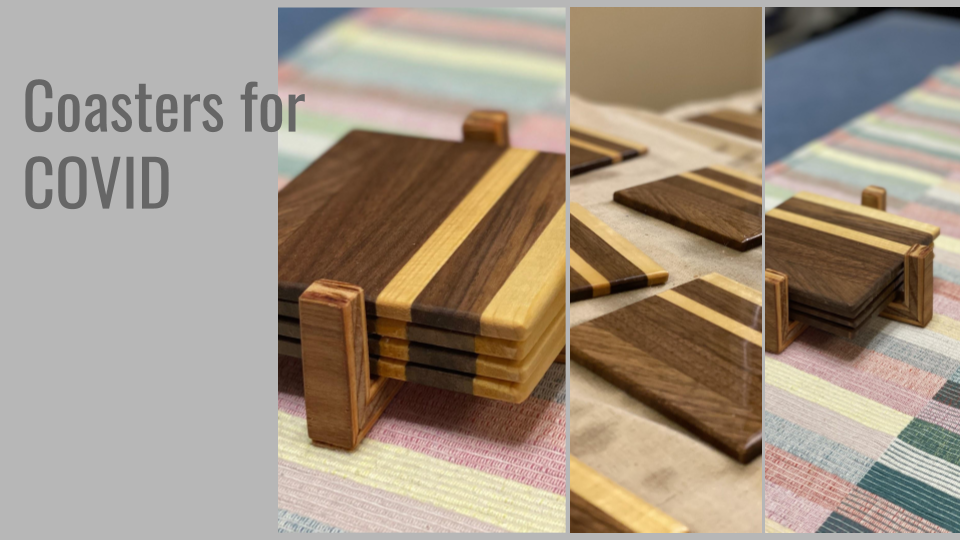
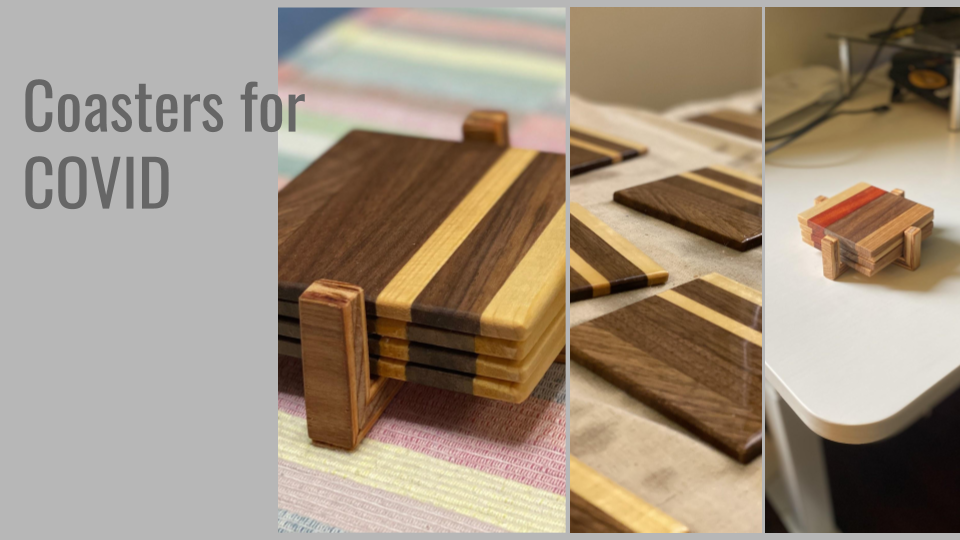
Added red coaster pics

Changed region(s): [[0.7812, 0.0, 1.0, 1.0]]

diff --git a/src/app/app.component.html b/src/app/app.component.html
@@ -14,21 +14,32 @@
 
   <div class="covidContent">
     <!-- What's Happening -->
-    <h2>What's Happening</h2>
-    <p>
-      I'm making hand-made wooden coasters and selling them for charity.
-    </p>
-    <p>
-      Your purchase will pay for the cost of the materials, and make a donation
-      to the
-      <a target="_blank" href="https://www.nokidhungry.org/coronavirus"
-        >No Kid Hungry</a
-      >
-      organization.
-    </p>
+    <h2 style="text-align: center;">What's Happening</h2>
+    <div class="happeningClass">
+      <p>
+        I'm making hand-made wooden coasters and selling them for charity.
+      </p>
+      <p>
+        Your purchase will pay for the cost of the materials, and make a
+        donation to the
+        <a target="_blank" href="https://www.nokidhungry.org/coronavirus"
+          >No Kid Hungry</a
+        >
+        organization.
+      </p>
+
+      <div class="imgWrapper">
+        <div class="blahhh"></div>
+        <img src="../assets/popOfColorCloseup.jpg" class="redCoastersDisplay" />
+        <img
+          src="../assets/coasterStand.jpg"
+          class="redCoastersDisplay secondImg"
+        />
+      </div>
+    </div>
 
     <!-- Ordering Form -->
-    <h2 id="orderForm">Order Form</h2>
+    <h2 id="orderForm" style="text-align: center;">Order Form</h2>
     <p>Tap each section to see details</p>
     <div class="tableClass">
       <table

diff --git a/src/styles.css b/src/styles.css
@@ -104,6 +104,15 @@ svg.material-icons:not(:last-child) {
   padding-top: 10px;
 }
 
+.redCoastersDisplay {
+  display: inline;
+  margin-left: auto;
+  margin-right: auto;
+  height: 381px;
+  padding-left: 10px;
+  padding-right: 10px;
+}
+
 .card {
   border-radius: 4px;
   border: 1px solid #eee;
@@ -301,6 +310,20 @@ img {
 }
 
 /* Responsive Styles */
+
+@media screen and (max-width: 896px) {
+  .redCoastersDisplay {
+    margin-left: auto;
+    margin-right: auto;
+    height: 280px;
+    display: block;
+  }
+
+  .secondImg {
+    display: none;
+  }
+}
+
 @media screen and (max-width: 767px) {
   .detailWrapper {
     display: block;
